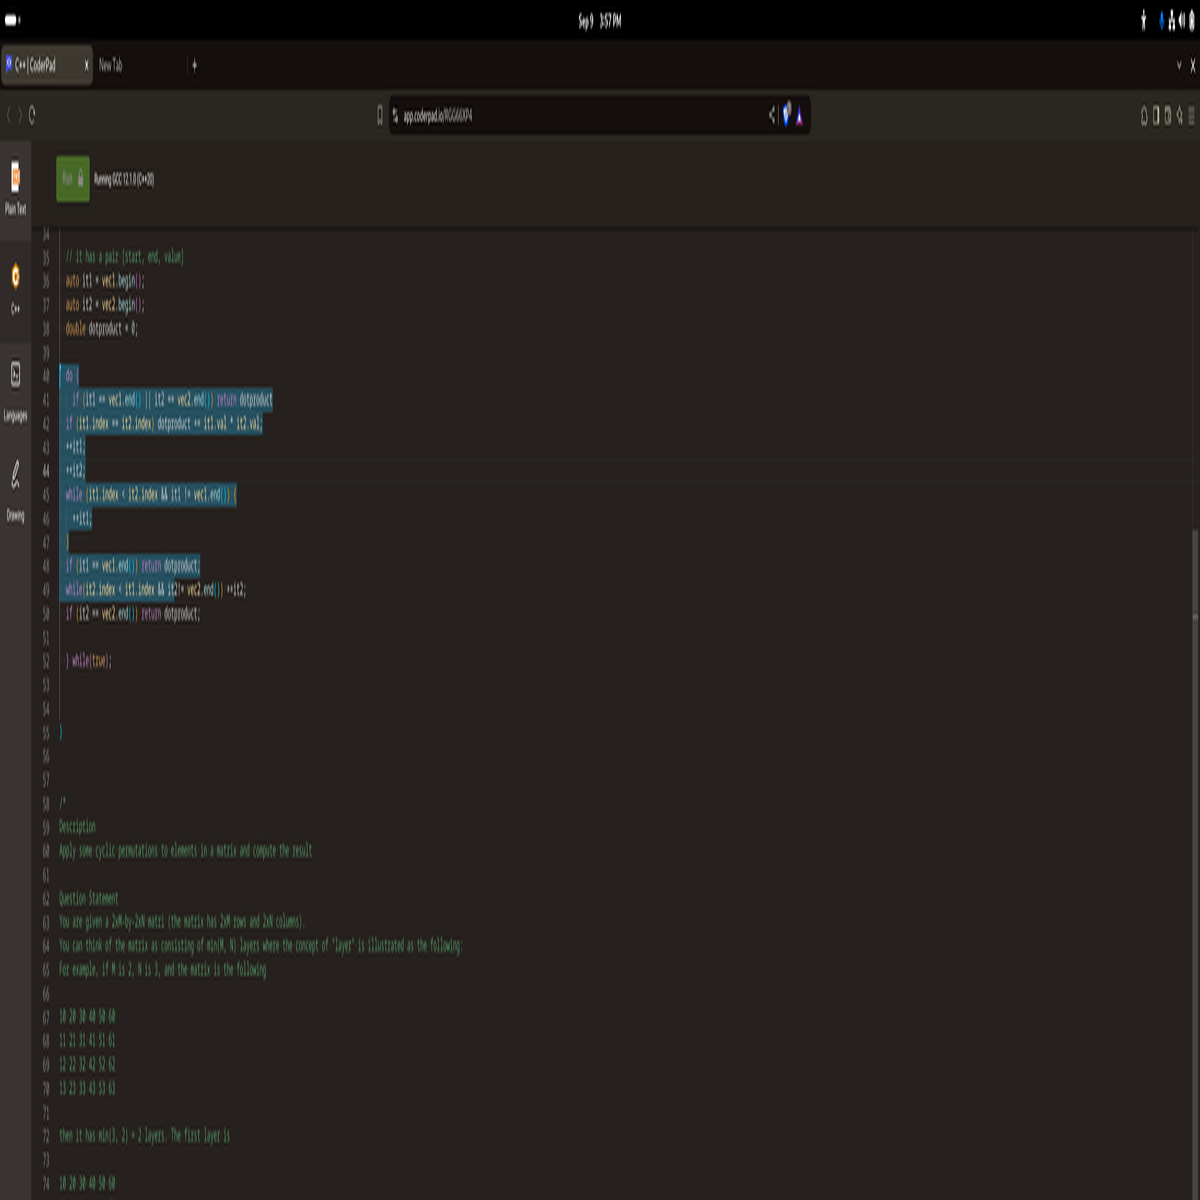
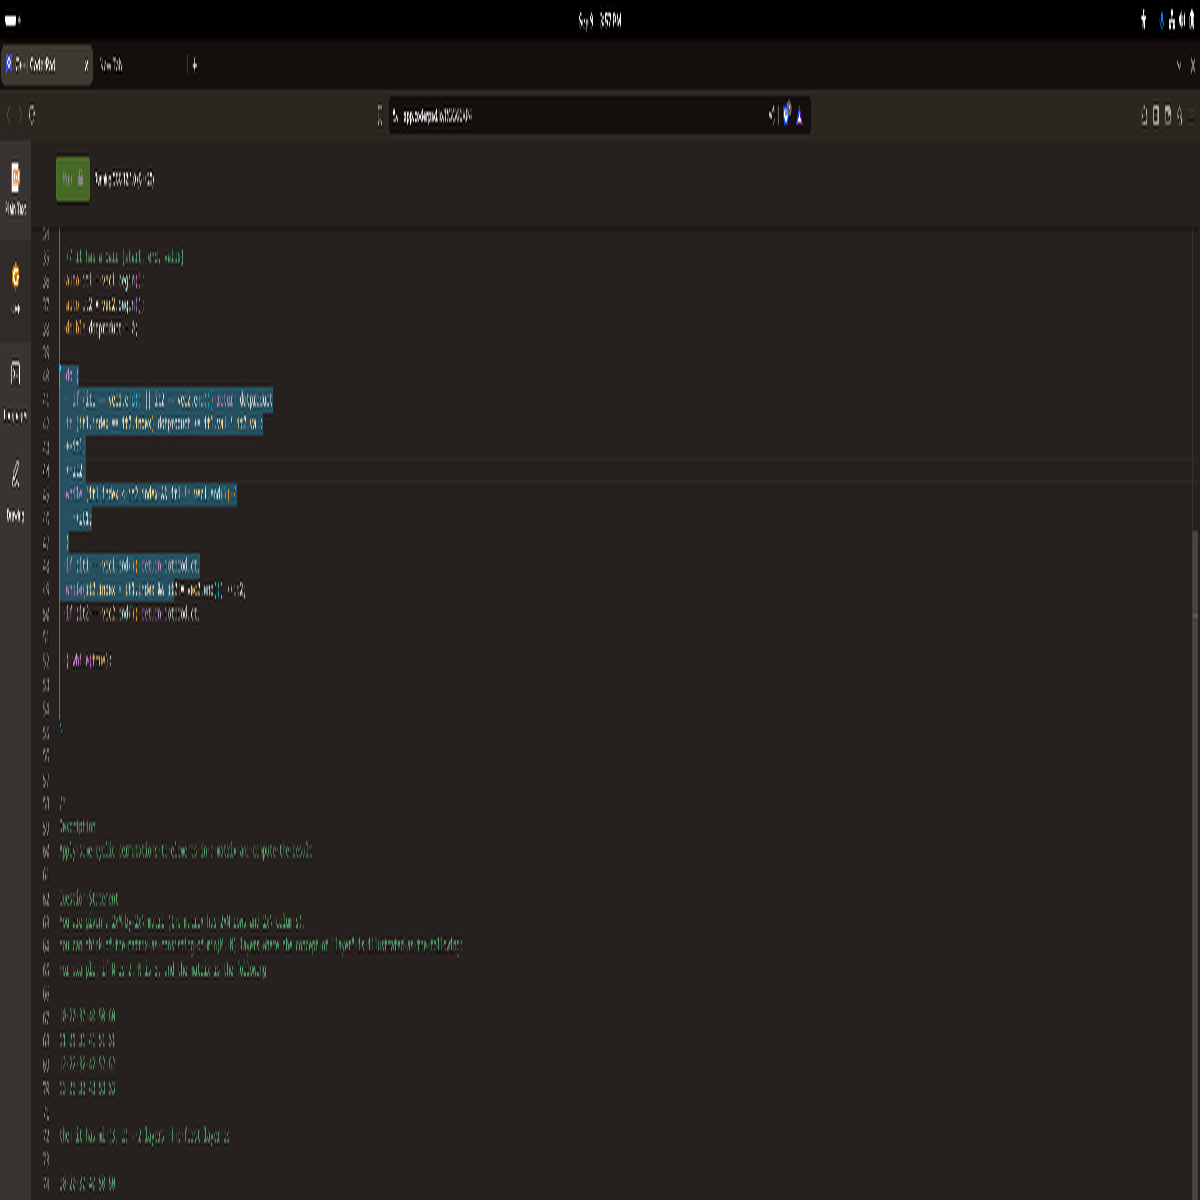
Fixes

diff --git a/cpp/EfficientViTForSemanticSegmentation.cpp b/cpp/EfficientViTForSemanticSegmentation.cpp
@@ -16,7 +16,7 @@
 #include <stdexcept>
 #include <vector>
 
-#define DEBUG_TRACE_TEXT_DETECTION 1
+// #define DEBUG_TRACE_TEXT_DETECTION 1
 
 #if defined DEBUG_TRACE_TEXT_DETECTION
 SUPPRESS_WARNINGS_START
@@ -82,8 +82,8 @@ template <typename TLeftIterator, typename TRightIterator>
                                                          TLeftIterator  leftEnd,
                                                          TRightIterator rightBegin,
                                                          TRightIterator rightEnd,
-                                                         float const    tolerance  = 3e-5f,
-                                                         float const    absDiffMin = 1e-45f)
+                                                         double const   tolerance  = 3e-5,
+                                                         double const   absDiffMin = 1e-45)
 {
 
     using expectedValueType = typename TLeftIterator::value_type;
@@ -91,11 +91,11 @@ template <typename TLeftIterator, typename TRightIterator>
 
     struct Result
     {
-        double            misMatchRatio{};
-        double            skippedRatio{};
-        expectedValueType maxTolerance{};
-        expectedValueType maxDiff{};
-        int               firstMismatch = -1;
+        double misMatchRatio{};
+        double skippedRatio{};
+        double maxTolerance{};
+        double maxDiff{};
+        int    firstMismatch = -1;
     } result{.maxTolerance = tolerance};
 
     int numSkipped    = 0;
@@ -105,21 +105,40 @@ template <typename TLeftIterator, typename TRightIterator>
     int               mismatchIndex = -1;
     expectedValueType expectedValueMismatch{};
     RhsType           rhsMismatch{};
+    auto              ldist = std::distance(leftBegin, leftEnd);
+    auto              rdist = std::distance(rightBegin, rightEnd);
 
-    if (std::distance(leftBegin, leftEnd) != std::distance(rightBegin, rightEnd))
-    {
-        throw std::runtime_error("expectedValue and rhs size does not match: " + std::to_string(std::distance(leftBegin, leftEnd))
-                                 + "!=" + std::to_string(std::distance(rightBegin, rightEnd)));
-    }
+    if (ldist != rdist) { throw std::runtime_error(fmt::format("expectedValue and rhs size does not match: {} != {}", ldist, rdist)); }
 
     for (int i = 0; leftBegin != leftEnd; ++leftBegin, ++rightBegin, ++i)
     {
         numTotal++;
+        SUPPRESS_WARNINGS_START
+        SUPPRESS_CLANG_WARNING("-Wabsolute-value")
+        SUPPRESS_CLANG_WARNING("-Wdouble-promotion")
 
+        auto diffcalc = [](auto const& l, auto const& r) {
+            if constexpr (!std::is_integral_v<decltype(l)>)
+            {
+                auto const absDiff      = static_cast<double>(abs(l - r));
+                auto const leftPctDiff  = (FP_ZERO == fpclassify(l)) ? 100.f : ((absDiff / static_cast<double>(abs(l))) * 100.f);
+                auto const rightPctDiff = (FP_ZERO == fpclassify(r)) ? 100.f : ((absDiff / static_cast<double>(abs(r))) * 100.f);
+                return std::tuple{absDiff, leftPctDiff, rightPctDiff};
+            }
+            else
+            {
+
+                auto const absDiff      = static_cast<double>(abs(l - r));
+                auto const leftPctDiff  = (l == 0) ? ((l == r) ? 0.f : 100.f) : ((absDiff / abs(l)) * 100.f);
+                auto const rightPctDiff = (r == 0) ? ((l == r) ? 0.f : 100.f) : ((absDiff / abs(r)) * 100.f);
+                return std::tuple{absDiff, leftPctDiff, rightPctDiff};
+            }
+            // else { throw std::runtime_error("Not implemented"); }
+        };
+        SUPPRESS_WARNINGS_END
+
+        auto const [absDiff, leftPctDiff, rightPctDiff] = diffcalc(*leftBegin, *rightBegin);
         // To avoid division by 0, when the denominator is 0 the % delta is considered to be 100%.
-        auto const absDiff      = abs(*leftBegin - *rightBegin);
-        auto const leftPctDiff  = (FP_ZERO == fpclassify(*leftBegin)) ? 100.f : ((absDiff / abs(*leftBegin)) * 100.f);
-        auto const rightPctDiff = (FP_ZERO == fpclassify(*rightBegin)) ? 100.f : ((absDiff / abs(*rightBegin)) * 100.f);
 
         // Perform a strong check on tolerance similar to what boost does.
         bool const isMismatch = (leftPctDiff > tolerance || rightPctDiff > tolerance);
@@ -431,29 +450,7 @@ struct EfficientViTForSemanticSegmentation : TextDetector
             for (auto const& p : bboxes) { bboxdump << fmt::format("poly = {}\n", fmt::join(p.polygon, ", ")); }
         }
 #endif
-        // auto   bboxes = GetBoundingBoxes(preds.permute({1, 2, 0}), TextThreshold, BlankThreshold, BlankThreshold);
-        auto clone1 = img.clone();
-        auto clone2 = img.clone();
 
-        size_t count = 0;
-        for (auto const& p : bboxes)
-        {
-            const cv::Scalar green(cv::Scalar(0, 255, 0));
-            const cv::Scalar red(cv::Scalar(0, 255, 0));
-            cv::rectangle(clone1, p.Rect(), red);
-            cv::polylines(clone2, p.polygon, false, green);
-            cv::putText(clone2,
-                        std::to_string(count++),
-                        (p.Rect().tl() + p.Rect().br()) / 2,
-                        cv::FONT_HERSHEY_COMPLEX,
-                        .6,    // NOLINT
-                        red);
-        }
-#if defined DEBUG_TRACE_TEXT_DETECTION
-        cv::imwrite(PredictionPtFilePath + ".trace.preds.bbox.overlay.png", clone1);
-        cv::imwrite(PredictionPtFilePath + ".trace.preds.bbox.overlay2.png", clone2);
-
-#endif
         return bboxes;
     }
 
@@ -466,50 +463,74 @@ struct EfficientViTForSemanticSegmentation : TextDetector
 
         int                        top = 0;
         std::vector<torch::Tensor> tensors;
-        for (int i = 0; i < numSplits; i++)
+        for (int i = 0; i < numSplits; i++, top += ImageChunkHeight)
         {
-            int height        = std::min(top + ImageChunkHeight, img.rows) - top;
-            int paddingNeeded = ImageChunkHeight - height;
-            img               = img(cv::Rect{0, top, img.cols, height});
+            int  height        = std::min(top + ImageChunkHeight, img.rows) - top;
+            int  paddingNeeded = ImageChunkHeight - height;
+            auto cropped       = img(cv::Rect{0, top, img.cols, height}).clone();
 
             if (paddingNeeded > 0)
             {
                 const cv::Scalar red(0, 0, 255);    // BGR color for red
                 cv::Mat          padded;
-                cv::copyMakeBorder(img, padded, 0, paddingNeeded, 0, 0, cv::BORDER_CONSTANT, red);
-                img = padded;
+                cv::copyMakeBorder(cropped, padded, 0, paddingNeeded, 0, 0, cv::BORDER_CONSTANT, red);
+                cropped = padded;
             }
             {
+#if defined DEBUG_TRACE_TEXT_DETECTION
+                cv::imwrite(fmt::format(PredictionPtFilePath + ".trace.split.{}.png", i), cropped);
+#endif
                 // This double resize actually necessary for downstream accuracy
                 cv::Mat resized1;
-                int     aspectRatioHeight = static_cast<int>(ImageChunkHeight * (ImageChunkWidth / static_cast<double>(img.cols)));
-                cv::resize(img, resized1, {ImageChunkWidth, aspectRatioHeight}, 0, 0, cv::INTER_LANCZOS4);
+                int     aspectRatioHeight = static_cast<int>(ImageChunkHeight * (ImageChunkWidth / static_cast<double>(cropped.cols)));
+                cv::resize(cropped, resized1, {ImageChunkWidth, aspectRatioHeight}, 0, 0, cv::INTER_LANCZOS4);
                 cv::Mat resized2;
                 cv::resize(resized1, resized2, {ImageChunkWidth, ImageChunkHeight}, 0, 0, cv::INTER_LANCZOS4);
-                img = resized2;
+                cropped = resized2;
+#if defined DEBUG_TRACE_TEXT_DETECTION
+                cv::imwrite(fmt::format(PredictionPtFilePath + ".trace.split.{}.resized.png", i), cropped);
+                // cropped = cv::imread(fmt::format(PredictionPtFilePath + ".trace.pillowresized.{}.png", i));
+#endif
             }
 
-            torch::Tensor converted = torch::zeros({img.rows, img.cols, 3}, torch::kU8);
-            std::memcpy(converted.data_ptr(), img.data, static_cast<size_t>(converted.numel()));
+            torch::Tensor converted = torch::zeros({cropped.rows, cropped.cols, 3}, torch::kU8);
+            std::memcpy(converted.data_ptr(), cropped.data, static_cast<size_t>(converted.numel()));
+
+#if defined DEBUG_TRACE_TEXT_DETECTION
+            {
+                torch::Tensor l;
+                torch::load(l, (PredictionPtFilePath + fmt::format(".trace.processor.input{}.pt", i)));
+                auto lvec = TensorToVector<uint8_t, uint8_t>(l);
+                auto rvec = TensorToVector<uint8_t, uint8_t>(converted);
+                TestCollectionsClose(lvec.begin(), lvec.end(), rvec.begin(), rvec.end());
+            }
+#endif
+
             converted = converted.to(torch::kFloat32);
             converted = converted / 255.0f;    // NOLINT
             converted.sub_(torch::tensor({ImagenetDefaultMean})).div_(torch::tensor({ImagenetDefaultStd}));
             converted = converted.permute({2, 0, 1});
-#if defined DEBUG_TRACE_TEXT_DETECTION1
-            WriteAsImage(converted, "converted.jpg");
-            torch::save(converted, "/home/ankurv/papertrail/cpp/libtorch_generated.pt");
+#if defined DEBUG_TRACE_TEXT_DETECTION
             {
-                torch::Tensor reftensor;
-                torch::load(reftensor, "/home/ankurv/papertrail/cpp/libtorch_reference.pt");
-                std::vector<float>    mine       = TensorToVector<float, float>(converted);
-                std::vector<float>    ref        = TensorToVector<float, float>(reftensor);
-                [[maybe_unused]] auto mismatches = TestCollectionsClose(mine.begin(), mine.end(), ref.begin(), ref.end());
-                WriteAsImage(reftensor, "reference.jpg");
+                torch::Tensor l;
+                torch::load(l, (PredictionPtFilePath + fmt::format(".trace.processor.output{}.pt", i)));
+                auto lvec = TensorToVector<float, float>(l);
+                auto rvec = TensorToVector<float, float>(converted);
+                TestCollectionsClose(lvec.begin(), lvec.end(), rvec.begin(), rvec.end());
             }
 #endif
+
             tensors.push_back(converted);
         }
-        return torch::stack(tensors);
+        auto output = torch::stack(tensors);
+#if defined DEBUG_TRACE_TEXT_DETECTION
+        torch::Tensor l;
+        torch::load(l, (PredictionPtFilePath + ".trace.detector.pixel_values.pt"));
+        auto lvec = TensorToVector<float, float>(l);
+        auto rvec = TensorToVector<float, float>(output);
+        TestCollectionsClose(lvec.begin(), lvec.end(), rvec.begin(), rvec.end());
+#endif
+        return output;
     }
 
     torch::Device              _device;
@@ -518,8 +539,9 @@ struct EfficientViTForSemanticSegmentation : TextDetector
 
 std::vector<PolygonBox> EfficientViTForSemanticSegmentation::Run(std::filesystem::path const& image)
 {
+    auto fpathstem = std::filesystem::absolute(image.parent_path()) / image.stem();
 #if defined DEBUG_TRACE_TEXT_DETECTION
-    PredictionPtFilePath = std::filesystem::absolute(image.parent_path()) / image.stem();
+    PredictionPtFilePath = fpathstem;
 #endif
     auto img       = cv::imread(image, cv::IMREAD_COLOR);
     auto imgTensor = Process_(img);
@@ -534,8 +556,34 @@ std::vector<PolygonBox> EfficientViTForSemanticSegmentation::Run(std::filesystem
                                                     .mode(torch::kBilinear)
                                                     .align_corners(false));
 
-    return ProcessPredictions_(logits, img);
+    auto bboxes = ProcessPredictions_(logits, img);
+
+    // #if defined DEBUG_TRACE_TEXT_DETECTION
+    //  auto   bboxes = GetBoundingBoxes(preds.permute({1, 2, 0}), TextThreshold, BlankThreshold, BlankThreshold);
+    auto   clone1 = cv::imread(image, cv::IMREAD_COLOR);
+    auto   clone2 = cv::imread(image, cv::IMREAD_COLOR);
+    size_t count  = 0;
+    for (auto const& p : bboxes)
+    {
+        const cv::Scalar green(cv::Scalar(0, 255, 0));
+        const cv::Scalar red(cv::Scalar(0, 0, 255));
+        auto             rect = p.Rect();
+        cv::rectangle(clone1, rect, red);
+        cv::polylines(clone2, p.polygon, false, green);
+        cv::putText(clone2,
+                    std::to_string(count++),
+                    (p.Rect().tl() + p.Rect().br()) / 2,
+                    cv::FONT_HERSHEY_COMPLEX,
+                    .6,    // NOLINT
+                    red);
+    }
+    cv::imwrite(fpathstem.string() + ".trace.preds.bbox.overlay.png", clone1);
+    cv::imwrite(fpathstem.string() + ".trace.preds.bbox.overlay2.png", clone2);
+
+    // #endif
+    return bboxes;
 }
+
 std::unique_ptr<TextDetector> TextDetector::Create(torch::Device device)
 {
     return std::make_unique<EfficientViTForSemanticSegmentation>(device,

diff --git a/cpp/surya_debug.py b/cpp/surya_debug.py
@@ -19,9 +19,12 @@ def write_tensor_ptc(tensor: torch.Tensor, file_path: Path) -> None:
     m.register_parameter("0", par)
     jitted = torch.jit.script(m)
     jitted.save(file_path)
-    if len(tensor.shape) == 3 and tensor.shape[2] == 3 and tensor.dtype == torch.uint8:
-        # Ensure the tensor is on the CPU and convert it to a NumPy array
-        cv2.imwrite(file_path.with_suffix(".png"), tensor.cpu().numpy())
+    if len(tensor.shape) == 3:
+        if tensor.shape[2] == 3 and tensor.dtype == torch.uint8:
+            # Ensure the tensor is on the CPU and convert it to a NumPy array
+            cv2.imwrite(file_path.with_suffix(".png"), tensor.cpu().numpy())
+        if tensor.shape[0] == 3 and tensor.dtype == torch.float32:
+            pass
 
 
 def read_tensor_ptc(file_path: Path) -> torch.Tensor:
@@ -74,8 +77,15 @@ def trace_image(imgfpath: Path) -> None:
         return logits
 
     def processor_wrapper(fn: any, *args: any, **kwargs: any) -> any:
-        write_tensor_ptc(torch.from_numpy(args[0]), imgfpath.with_suffix(".trace.processor.input.pt"))
-        return fn(processor_model, *args, **kwargs)
+        if not hasattr(processor_wrapper, "counter"):
+            processor_wrapper.counter = 0  # it doesn't exist yet, so initialize it
+        write_tensor_ptc(torch.from_numpy(args[0]), imgfpath.with_suffix(f".trace.processor.input{processor_wrapper.counter}.pt"))
+        outval = fn(processor_model, *args, **kwargs)
+        write_tensor_ptc(
+            torch.tensor(outval["pixel_values"][0]), imgfpath.with_suffix(f".trace.processor.output{processor_wrapper.counter}.pt")
+        )
+        processor_wrapper.counter += 1
+        return outval
 
     detector_model.__class__.__call__ = functools.partial(detector_wrapper, detector_model.__class__.__call__)
     processor_model.__class__.__call__ = functools.partial(processor_wrapper, processor_model.__class__.__call__)

diff --git a/cpp/Scanner.cpp b/cpp/Scanner.cpp
@@ -91,7 +91,7 @@ try
                 std::cout << "CONFIDENCE " << result.confidence << '\n';
                 std::cout << "################################################" << '\n';
             }*/
-            cv::imwrite((fpath.parent_path() / "output-heatmap.jpg").c_str(), clone);
+            // cv::imwrite((fpath.parent_path() / "output-heatmap.jpg").c_str(), clone);
         }
     }
 } catch (std::exception const& ex)

diff --git a/cpp/CRAFT.cpp b/cpp/CRAFT.cpp
@@ -250,7 +250,7 @@ GetBoundingBoxes(const torch::Tensor& output, [[maybe_unused]] double textThresh
         // std::cout << "BOUNDING BOX: " << box << std::endl;
     }
     // # uncomment to see raw output written to disk
-    cv::imwrite("output-heatmap.jpg", outputScore);
+    // cv::imwrite("output-heatmap.jpg", outputScore);
     return detBoxes;
 }
 
